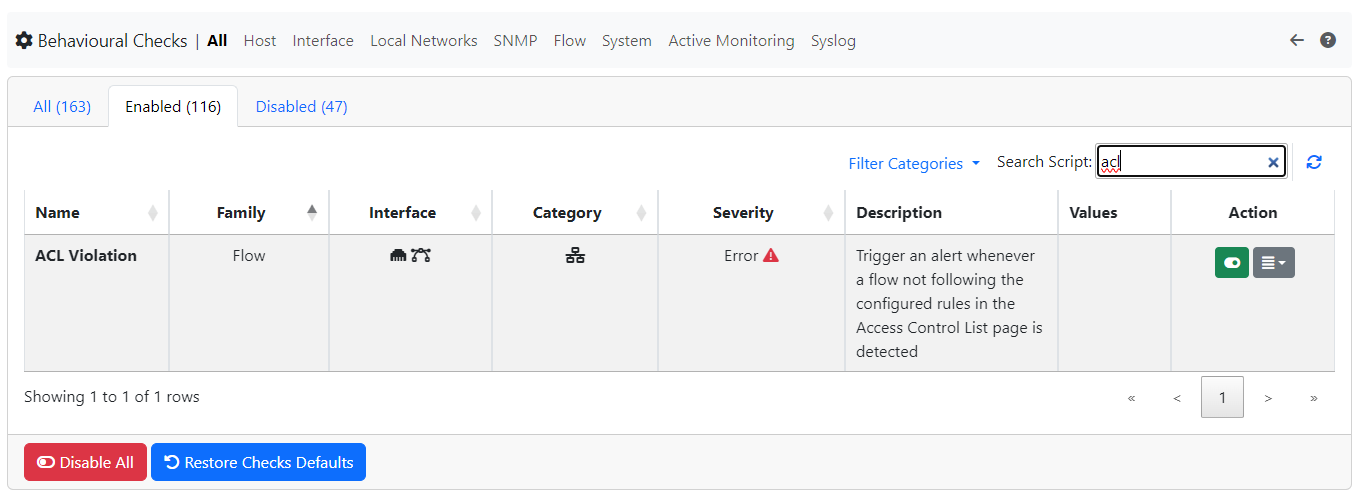
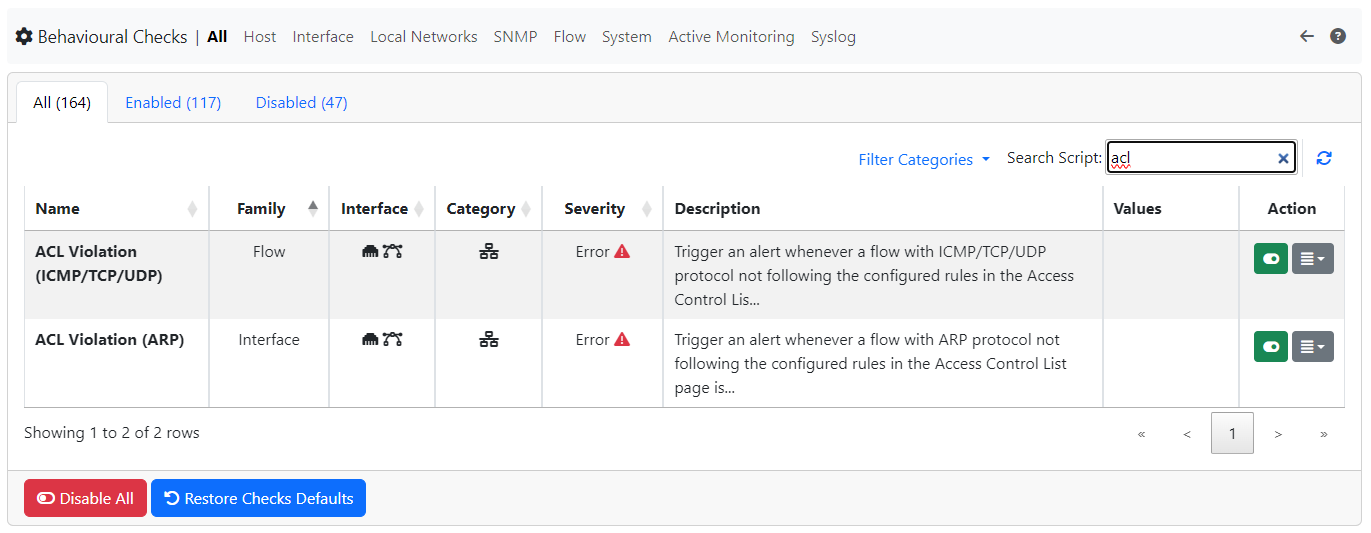
Added ACL violation ARP alert (#8696)

diff --git a/src/LuaEngineInterface.cpp b/src/LuaEngineInterface.cpp
@@ -2096,7 +2096,7 @@ static int ntop_interface_remove_ip_acl(lua_State *vm) {
 /* ****************************************** */
 
 static int ntop_interface_insert_mac_acl(lua_State *vm) {
-  bool res;
+  bool res = false;
 #ifdef NTOPNG_PRO
   NetworkInterface *curr_iface = getCurrentInterface(vm);
   char *mac_string;
@@ -4710,7 +4710,7 @@ static int ntop_interface_check_context(lua_State *vm) {
       (strcmp(c->iface->getEntityValue().c_str(), entity_val)) != 0) {
     /* NOTE: setting a context for a differnt interface is currently not
      * supported */
-    ntop->getTrace()->traceEvent(TRACE_WARNING, "Bad context - expected interface %s, found %s (%s) in context",
+    ntop->getTrace()->traceEvent(TRACE_DEBUG, "Bad context - expected interface %s, found %s (%s) in context",
         entity_val,
         c->iface == NULL ? "NULL" : c->iface->getEntityValue().c_str(),
         c->iface == NULL ? "NULL" : c->iface->get_name());

diff --git a/doc/src/advanced_features/access_control_list.rst b/doc/src/advanced_features/access_control_list.rst
@@ -15,6 +15,13 @@ Configuration
 #############
 
 To enable this feature, first enable the ACL Violation alert.
+There are two alerts for this feature:
+ - ACL Violation (ARP), for ARP traffic.
+ - ACL Violation (ICMP/TCP/UDP), for ICMP/TCP/UDP traffic.
+
+.. note::
+
+  Even if a rule is set but the alert is not enabled, no alert is going to be emitted by ntopng.
 
 .. figure:: ../img/acl_violation_alert.png
   :align: center
@@ -73,3 +80,20 @@ Delete Rules
 ############
 
 It is instead possible to delete rules, like for the Edit, by clicking on the Action button and selecting `Delete`. Other than that it's possible to delete all the rules by clicking on the red button `Delete All Rules` below the table.
+
+Alert
+#####
+
+After configuring everything, ntopng is going to start checking for flows not respecting the set rules and trigger the alerts;
+
+.. figure:: ../img/acl_violation_alert_flow.png
+  :align: center
+  :alt: Flow Alert (ICMP/TCP/UDP)
+
+  Flow Alert (ICMP/TCP/UDP)
+
+.. figure:: ../img/acl_violation_alert_mac.png
+  :align: center
+  :alt: MAC Alert (ARP)
+
+  MAC Alert (ARP)
